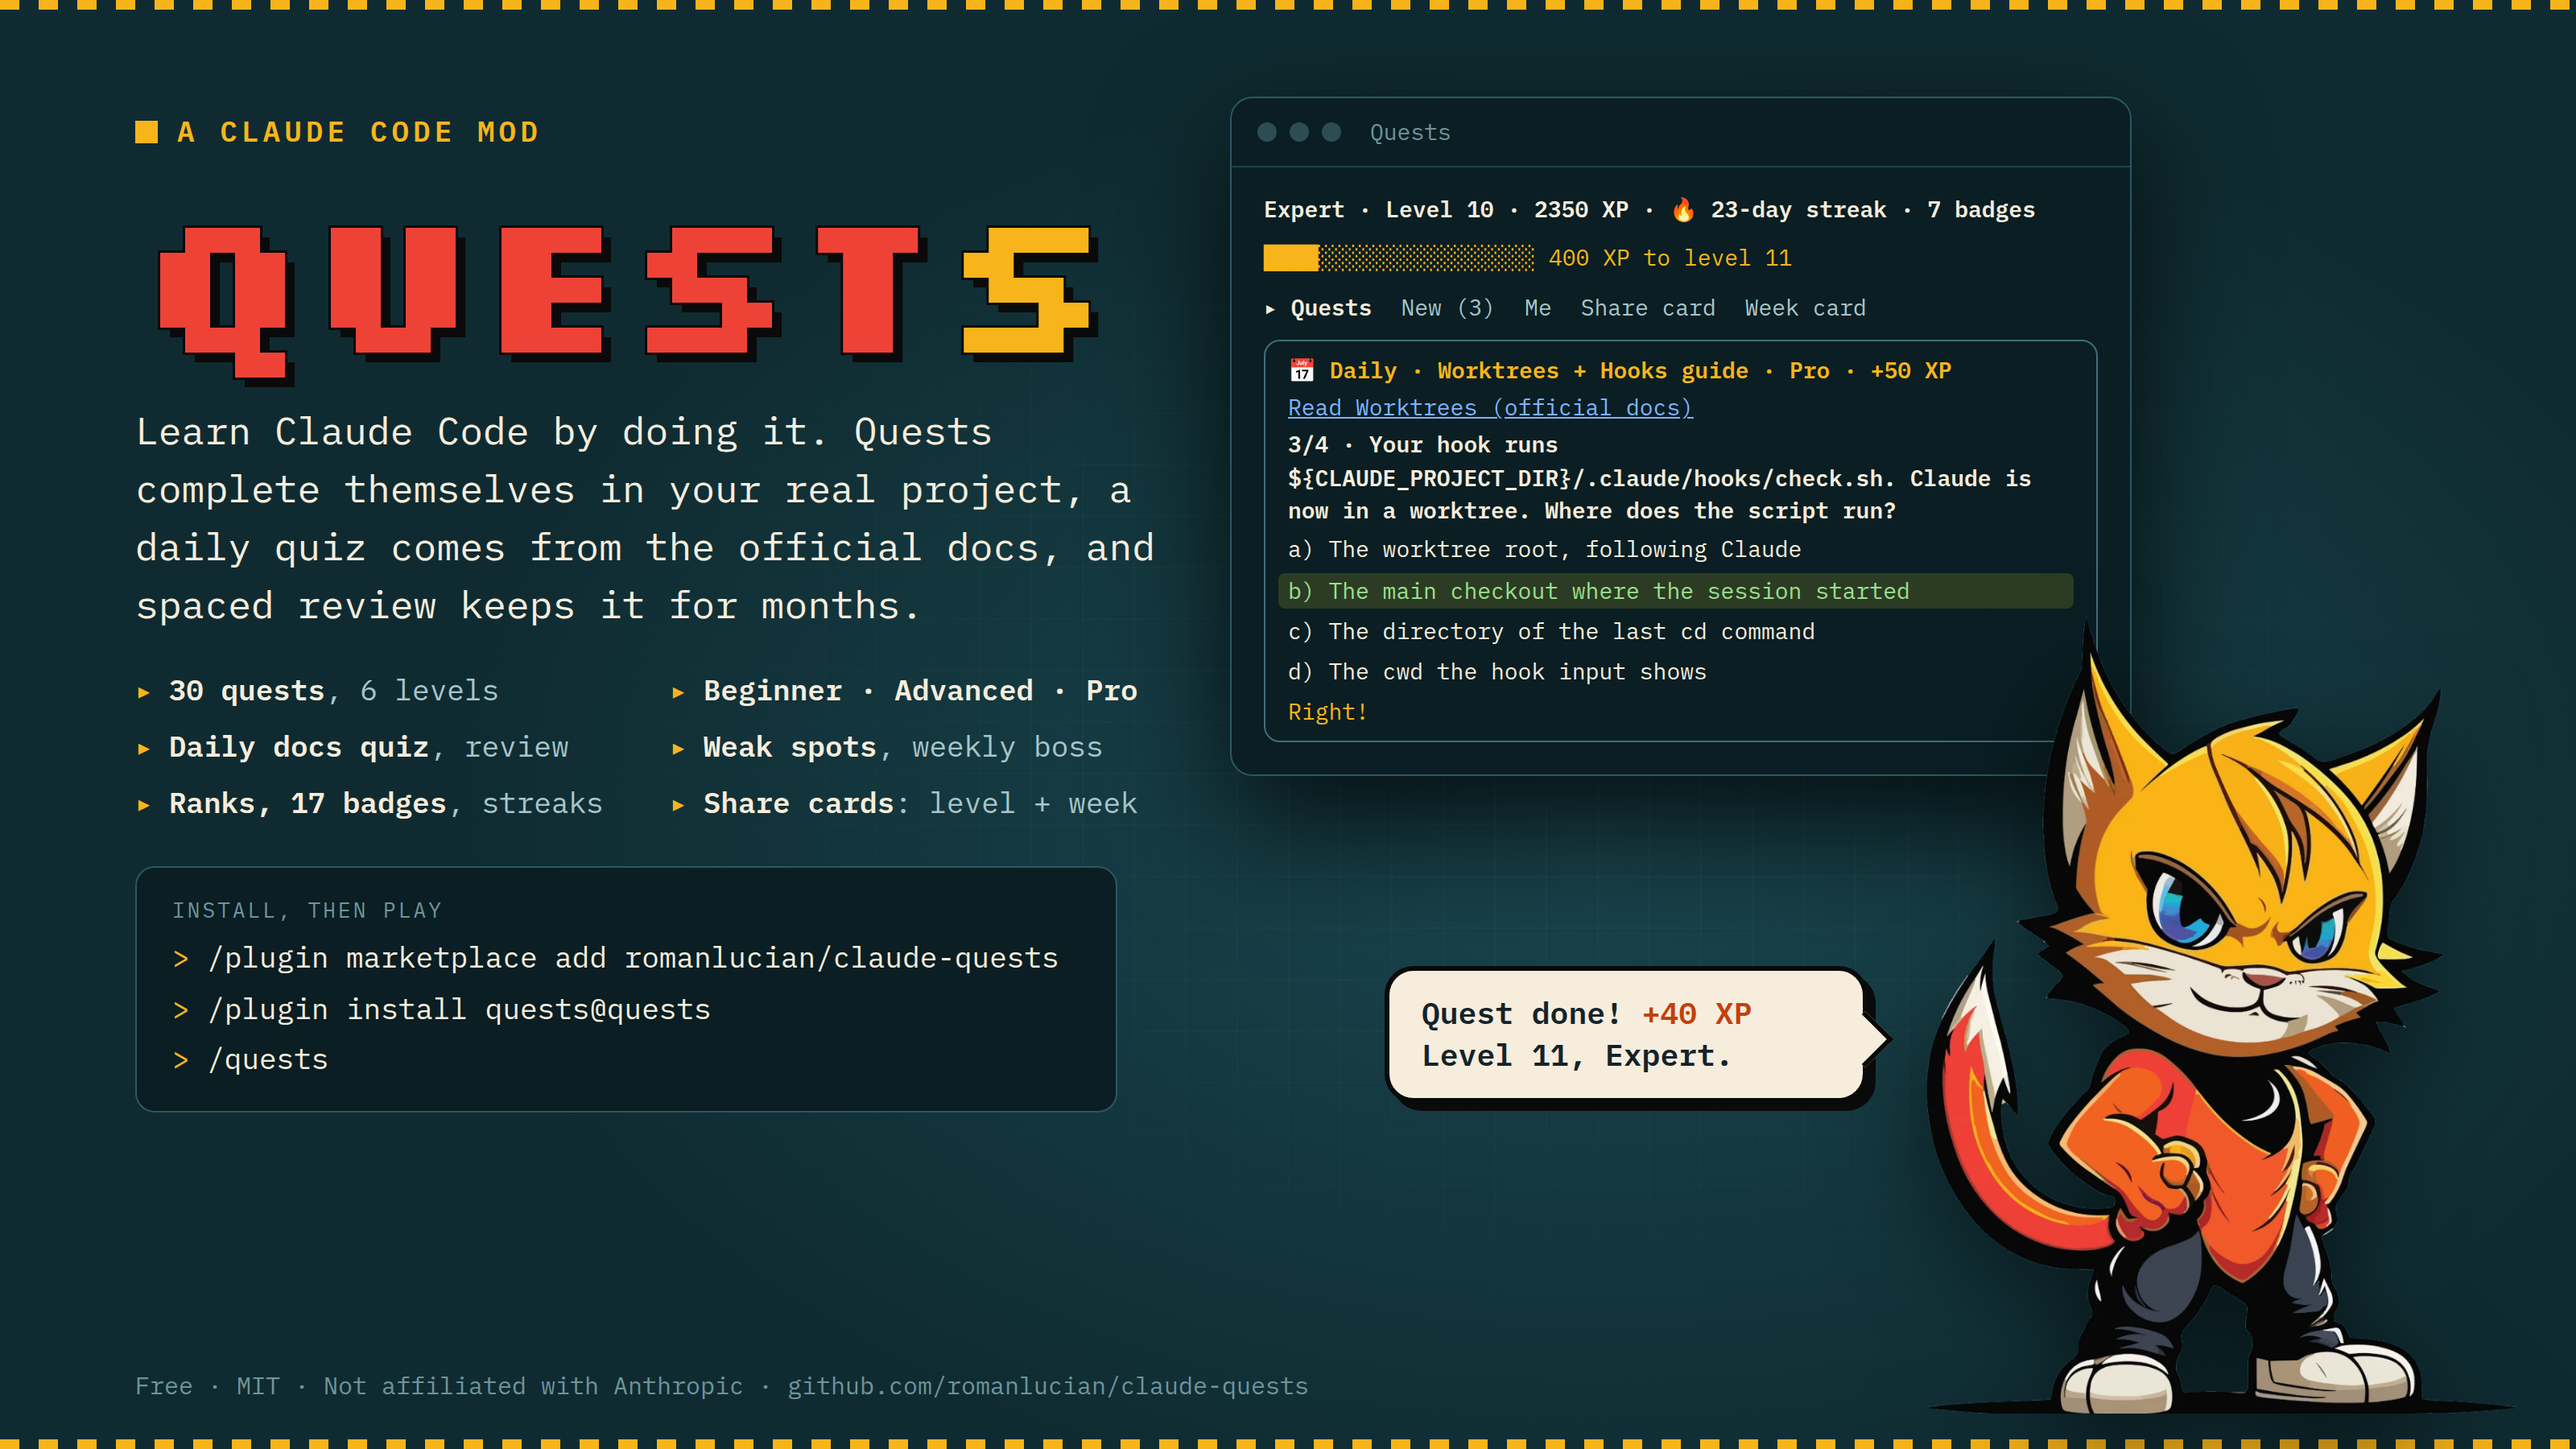
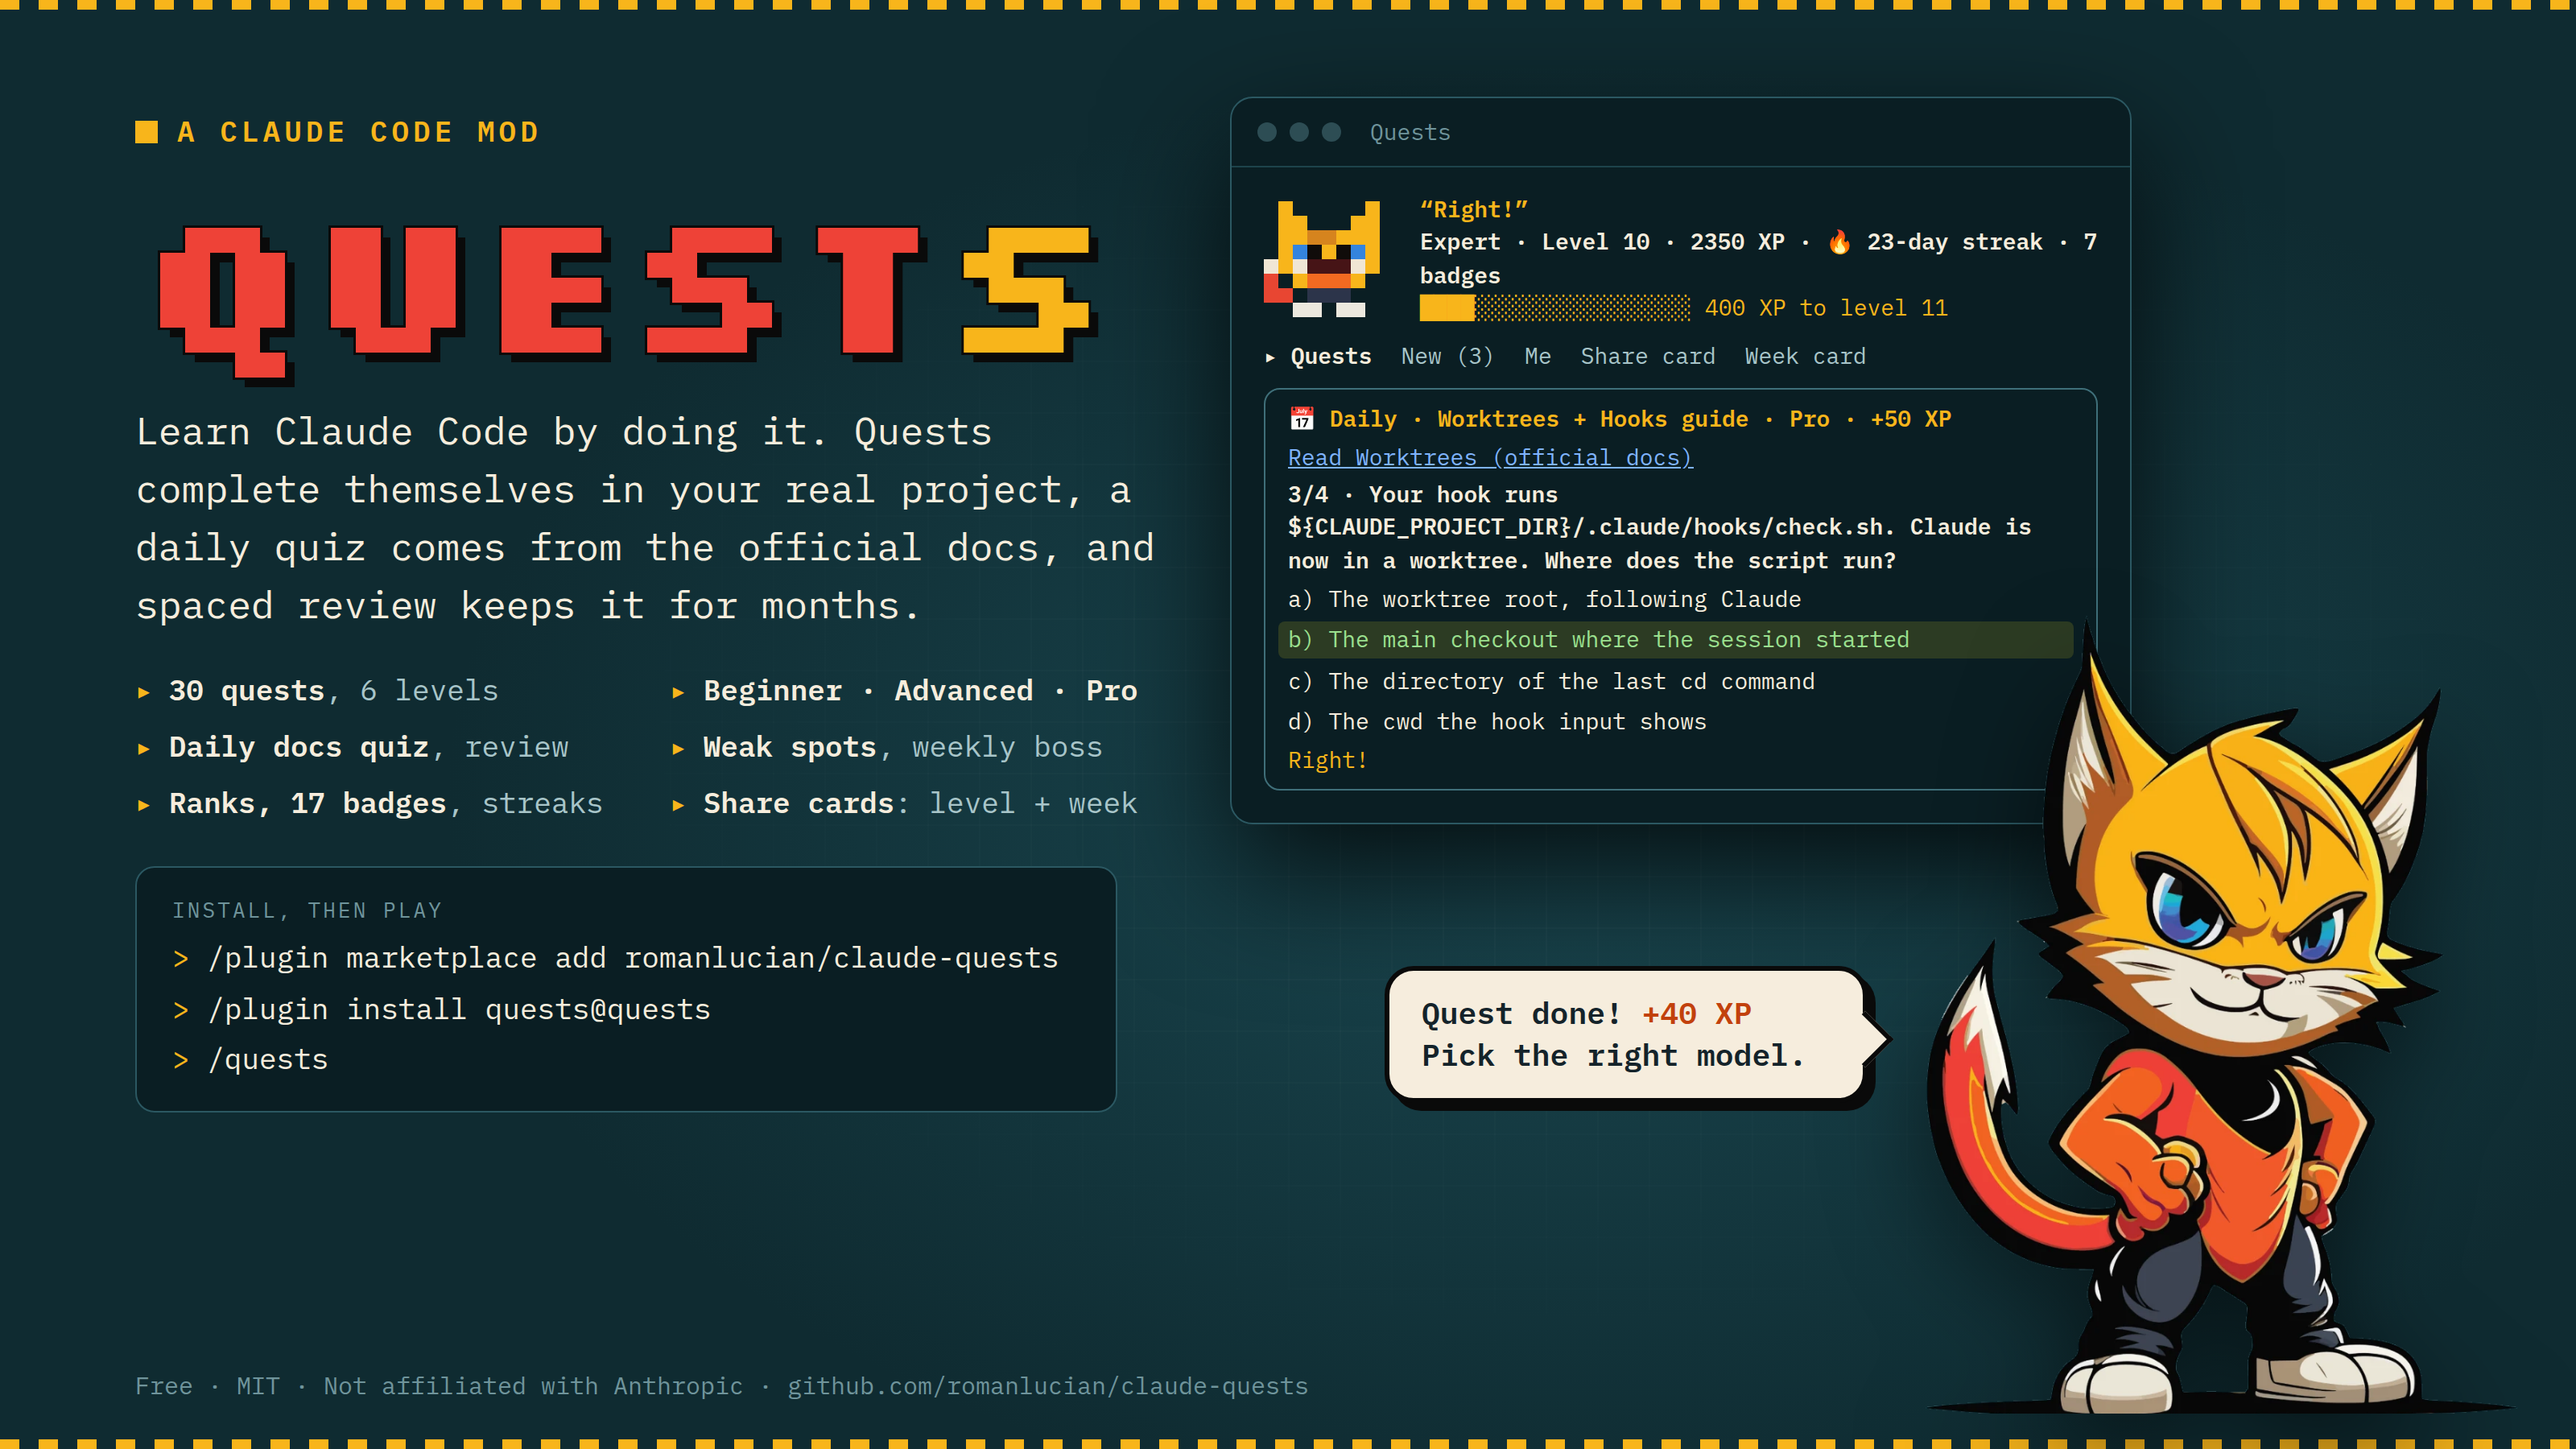
README pictures: true to the mod
- Poster: the cat's bubble said "Level 11" after +40 XP, but the pane shows
  level 10 with 400 XP to go; it now names the quest. The pane shows the
  pixel cat, as the mod does.
- Level card example (README and how-it-works): 9 features tried earns
  Early Adopter, which the card now shows.
- The poster's description no longer mentions a week card.

Claude-Session: https://claude.ai/code/session_01PW4wBEfqUtWqE3h4cXzFBy

Changed region(s): [[0.4688, 0.1244, 0.8125, 0.56], [0.5625, 0.7156, 0.6875, 0.7467]]

diff --git a/README.md b/README.md
@@ -4,7 +4,7 @@ A Claude Code mod that turns learning Claude Code into a game. Type `/quests`
 and a pane opens with short missions. You don't read a tutorial: you do the
 thing in your real project, and the quest completes by itself.
 
-![Quests: a Claude Code mod. The pane shows a Pro daily quiz on worktrees and hooks, a quest done, and a week card](docs/poster.png)
+![Quests: a Claude Code mod. The pane, with the pixel cat, shows a Pro daily quiz on worktrees and hooks; the cat says a quest is done](docs/poster.png)
 
 ## Install
 
